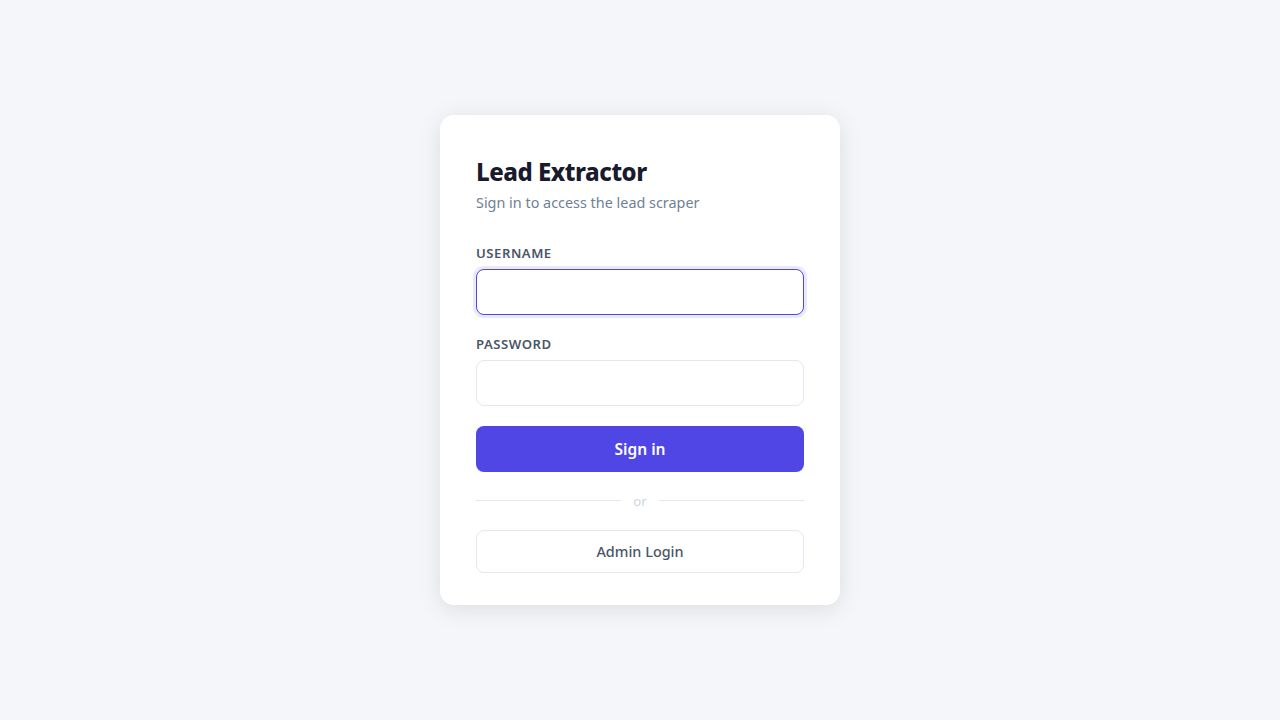
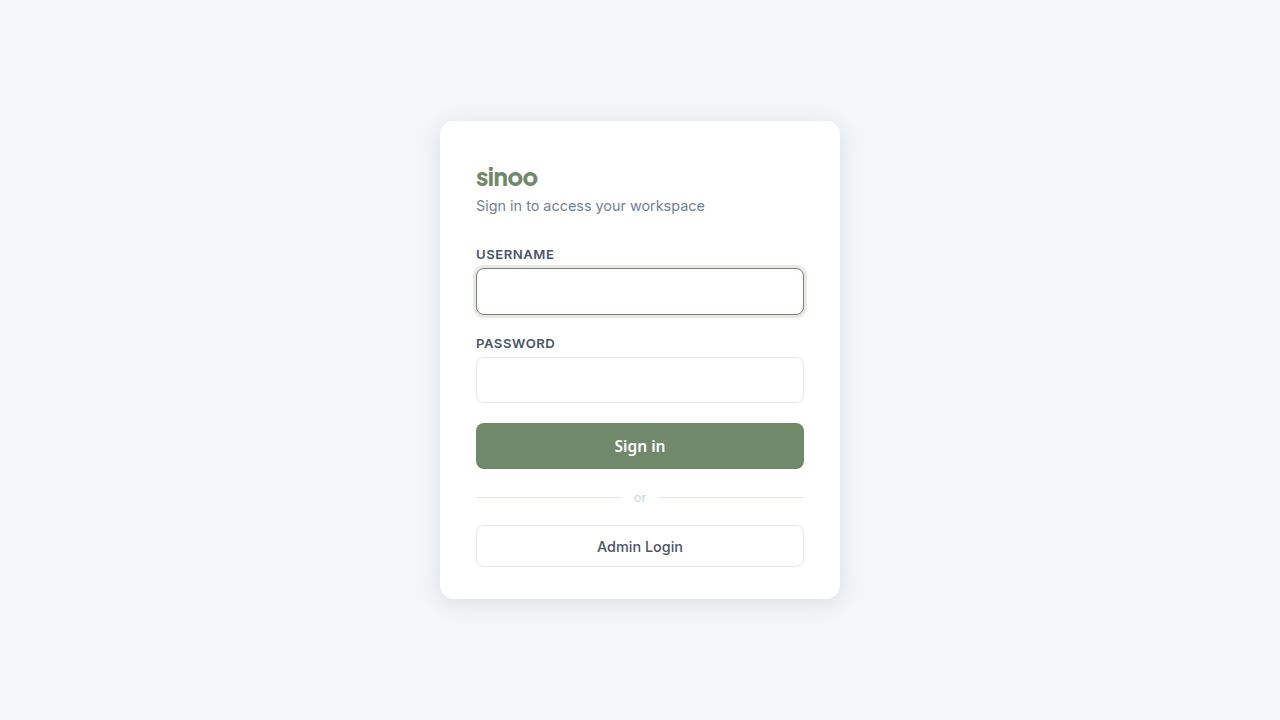
Update typography to use Plus Jakarta Sans for headings and Inter for UI text
Updated all templates to import Google Fonts for 'Plus Jakarta Sans' and 'Inter', setting 'Inter' as the body font and 'Plus Jakarta Sans' for all heading elements.

Replit-Commit-Author: Agent
Replit-Commit-Session-Id: 70f2fbb3-3fb2-4a7e-8eef-692e6d8c319b
Replit-Commit-Checkpoint-Type: full_checkpoint
Replit-Commit-Event-Id: 42d11305-542d-417f-8860-d12ada4a50b3
Replit-Commit-Screenshot-Url: https://storage.googleapis.com/screenshot-production-us-central1/626c7f7c-f9c2-48c3-b7c5-d90f46ca1b94/70f2fbb3-3fb2-4a7e-8eef-692e6d8c319b/euCs1Ox
Replit-Helium-Checkpoint-Created: true

diff --git a/artifacts/lead-scorer/templates/admin_login.html b/artifacts/lead-scorer/templates/admin_login.html
@@ -4,11 +4,14 @@
   <meta charset="UTF-8" />
   <meta name="viewport" content="width=device-width, initial-scale=1.0" />
   <title>sinoo — Admin Login</title>
+  <link rel="preconnect" href="https://fonts.googleapis.com">
+  <link rel="preconnect" href="https://fonts.gstatic.com" crossorigin>
+  <link href="https://fonts.googleapis.com/css2?family=Inter:wght@400;500;600;700&family=Plus+Jakarta+Sans:wght@600;700;800&display=swap" rel="stylesheet">
   <style>
     *, *::before, *::after { box-sizing: border-box; margin: 0; padding: 0; }
 
     body {
-      font-family: Georgia, "Times New Roman", Times, serif;
+      font-family: 'Inter', sans-serif;
       background: #f4f6f9;
       color: #1a1a2e;
       min-height: 100vh;
@@ -24,6 +27,10 @@
       padding: 2.5rem 2.25rem 2rem;
       width: 100%;
       max-width: 400px;
+    }
+
+    h1, h2, h3, h4, h5, h6, .logo {
+      font-family: 'Plus Jakarta Sans', sans-serif;
     }
 
     .logo {

diff --git a/artifacts/lead-scorer/templates/login.html b/artifacts/lead-scorer/templates/login.html
@@ -4,11 +4,14 @@
   <meta charset="UTF-8" />
   <meta name="viewport" content="width=device-width, initial-scale=1.0" />
   <title>sinoo — Sign In</title>
+  <link rel="preconnect" href="https://fonts.googleapis.com">
+  <link rel="preconnect" href="https://fonts.gstatic.com" crossorigin>
+  <link href="https://fonts.googleapis.com/css2?family=Inter:wght@400;500;600;700&family=Plus+Jakarta+Sans:wght@600;700;800&display=swap" rel="stylesheet">
   <style>
     *, *::before, *::after { box-sizing: border-box; margin: 0; padding: 0; }
 
     body {
-      font-family: Georgia, "Times New Roman", Times, serif;
+      font-family: 'Inter', sans-serif;
       background: #f4f6f9;
       color: #1a1a2e;
       min-height: 100vh;
@@ -24,6 +27,10 @@
       padding: 2.5rem 2.25rem 2rem;
       width: 100%;
       max-width: 400px;
+    }
+
+    h1, h2, h3, h4, h5, h6, .logo {
+      font-family: 'Plus Jakarta Sans', sans-serif;
     }
 
     .logo {

diff --git a/artifacts/lead-scorer/templates/icp_view.html b/artifacts/lead-scorer/templates/icp_view.html
@@ -4,14 +4,21 @@
   <meta charset="UTF-8" />
   <meta name="viewport" content="width=device-width, initial-scale=1.0" />
   <title>sinoo — Ideal Customer Profile</title>
+  <link rel="preconnect" href="https://fonts.googleapis.com">
+  <link rel="preconnect" href="https://fonts.gstatic.com" crossorigin>
+  <link href="https://fonts.googleapis.com/css2?family=Inter:wght@400;500;600;700&family=Plus+Jakarta+Sans:wght@600;700;800&display=swap" rel="stylesheet">
   <style>
     *, *::before, *::after { box-sizing: border-box; margin: 0; padding: 0; }
 
     body {
-      font-family: Georgia, "Times New Roman", Times, serif;
+      font-family: 'Inter', sans-serif;
       background: #f4f6f9;
       color: #1a1a2e;
       min-height: 100vh;
+    }
+
+    h1, h2, h3, h4, h5, h6 {
+      font-family: 'Plus Jakarta Sans', sans-serif;
     }
 
     header {

diff --git a/artifacts/lead-scorer/templates/index.html b/artifacts/lead-scorer/templates/index.html
@@ -4,14 +4,21 @@
   <meta charset="UTF-8" />
   <meta name="viewport" content="width=device-width, initial-scale=1.0" />
   <title>sinoo — Lead Extractor</title>
+  <link rel="preconnect" href="https://fonts.googleapis.com">
+  <link rel="preconnect" href="https://fonts.gstatic.com" crossorigin>
+  <link href="https://fonts.googleapis.com/css2?family=Inter:wght@400;500;600;700&family=Plus+Jakarta+Sans:wght@600;700;800&display=swap" rel="stylesheet">
   <style>
     *, *::before, *::after { box-sizing: border-box; margin: 0; padding: 0; }
 
     body {
-      font-family: Georgia, "Times New Roman", Times, serif;
+      font-family: 'Inter', sans-serif;
       background: #f4f6f9;
       color: #3d3d3d;
       min-height: 100vh;
+    }
+
+    h1, h2, h3, h4, h5, h6 {
+      font-family: 'Plus Jakarta Sans', sans-serif;
     }
 
     header {

diff --git a/artifacts/lead-scorer/templates/admin.html b/artifacts/lead-scorer/templates/admin.html
@@ -4,14 +4,21 @@
   <meta charset="UTF-8" />
   <meta name="viewport" content="width=device-width, initial-scale=1.0" />
   <title>sinoo — ICP Editor</title>
+  <link rel="preconnect" href="https://fonts.googleapis.com">
+  <link rel="preconnect" href="https://fonts.gstatic.com" crossorigin>
+  <link href="https://fonts.googleapis.com/css2?family=Inter:wght@400;500;600;700&family=Plus+Jakarta+Sans:wght@600;700;800&display=swap" rel="stylesheet">
   <style>
     *, *::before, *::after { box-sizing: border-box; margin: 0; padding: 0; }
 
     body {
-      font-family: Georgia, "Times New Roman", Times, serif;
+      font-family: 'Inter', sans-serif;
       background: #f4f6f9;
       color: #1a1a2e;
       min-height: 100vh;
+    }
+
+    h1, h2, h3, h4, h5, h6 {
+      font-family: 'Plus Jakarta Sans', sans-serif;
     }
 
     header {
